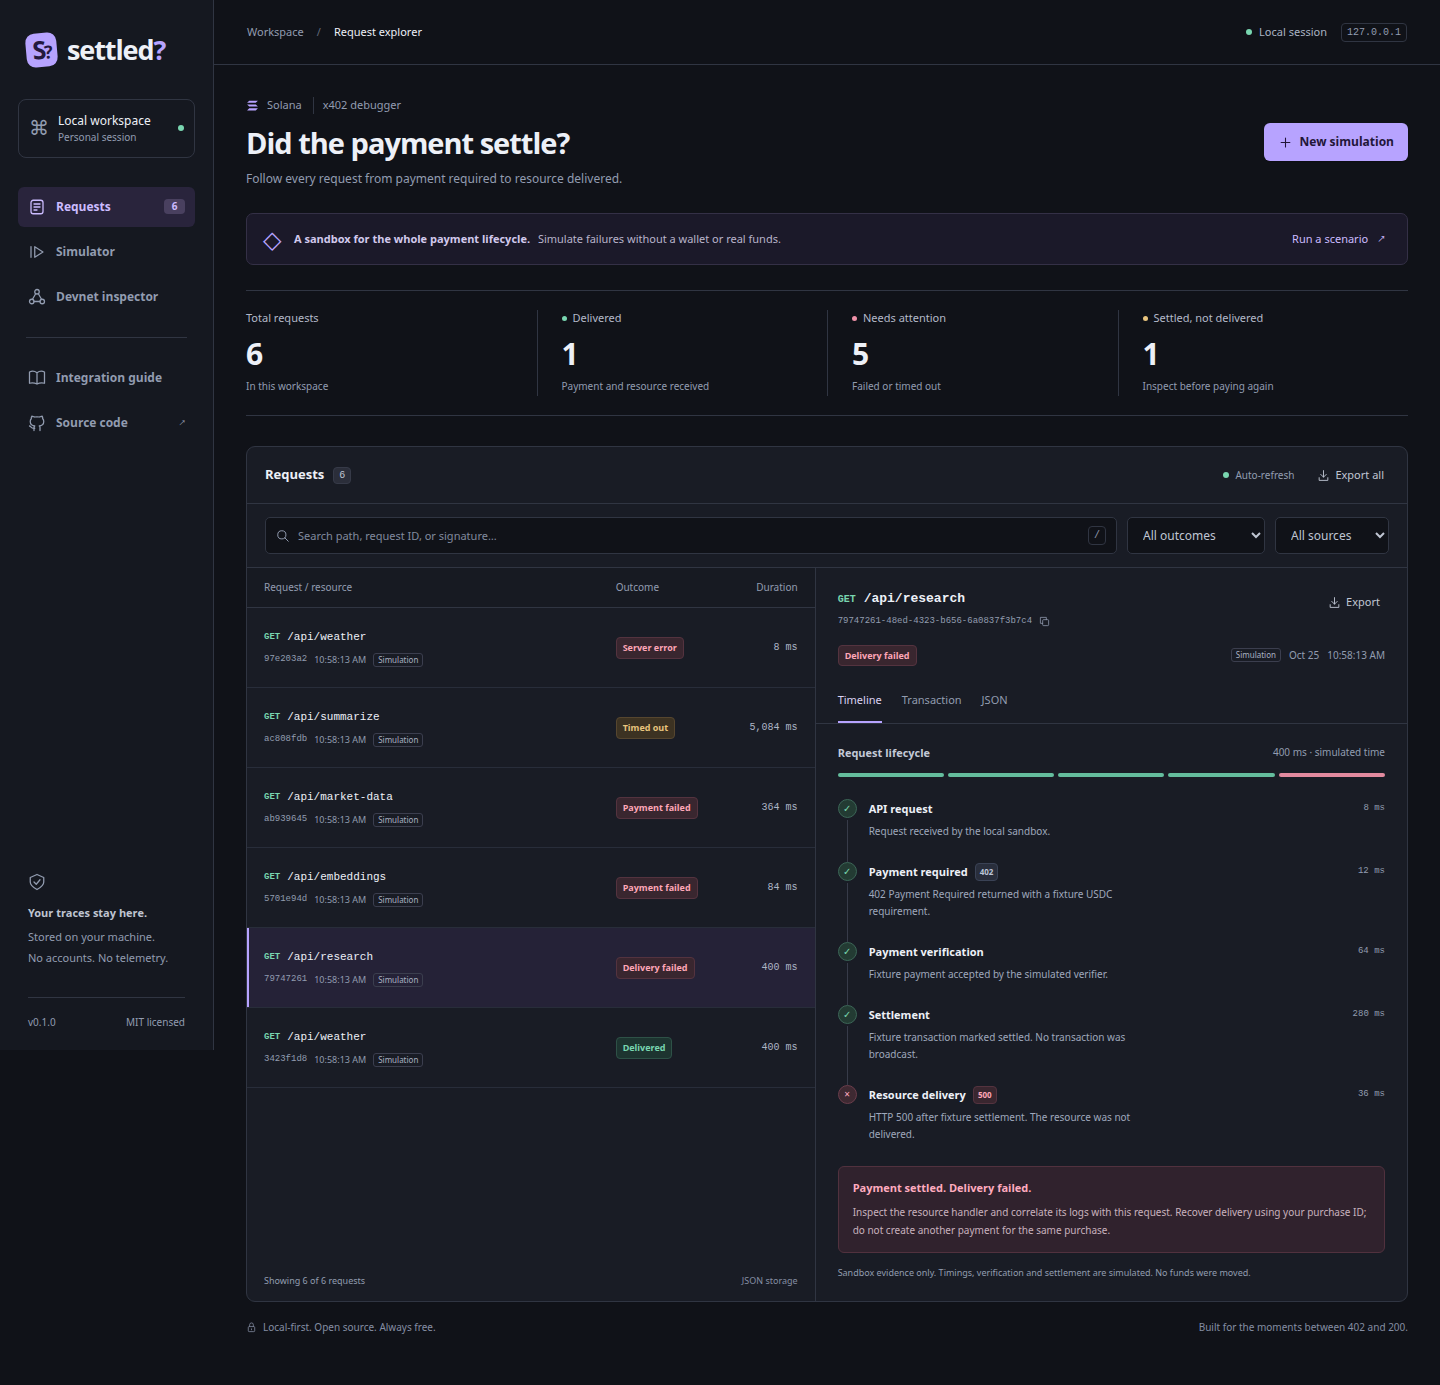
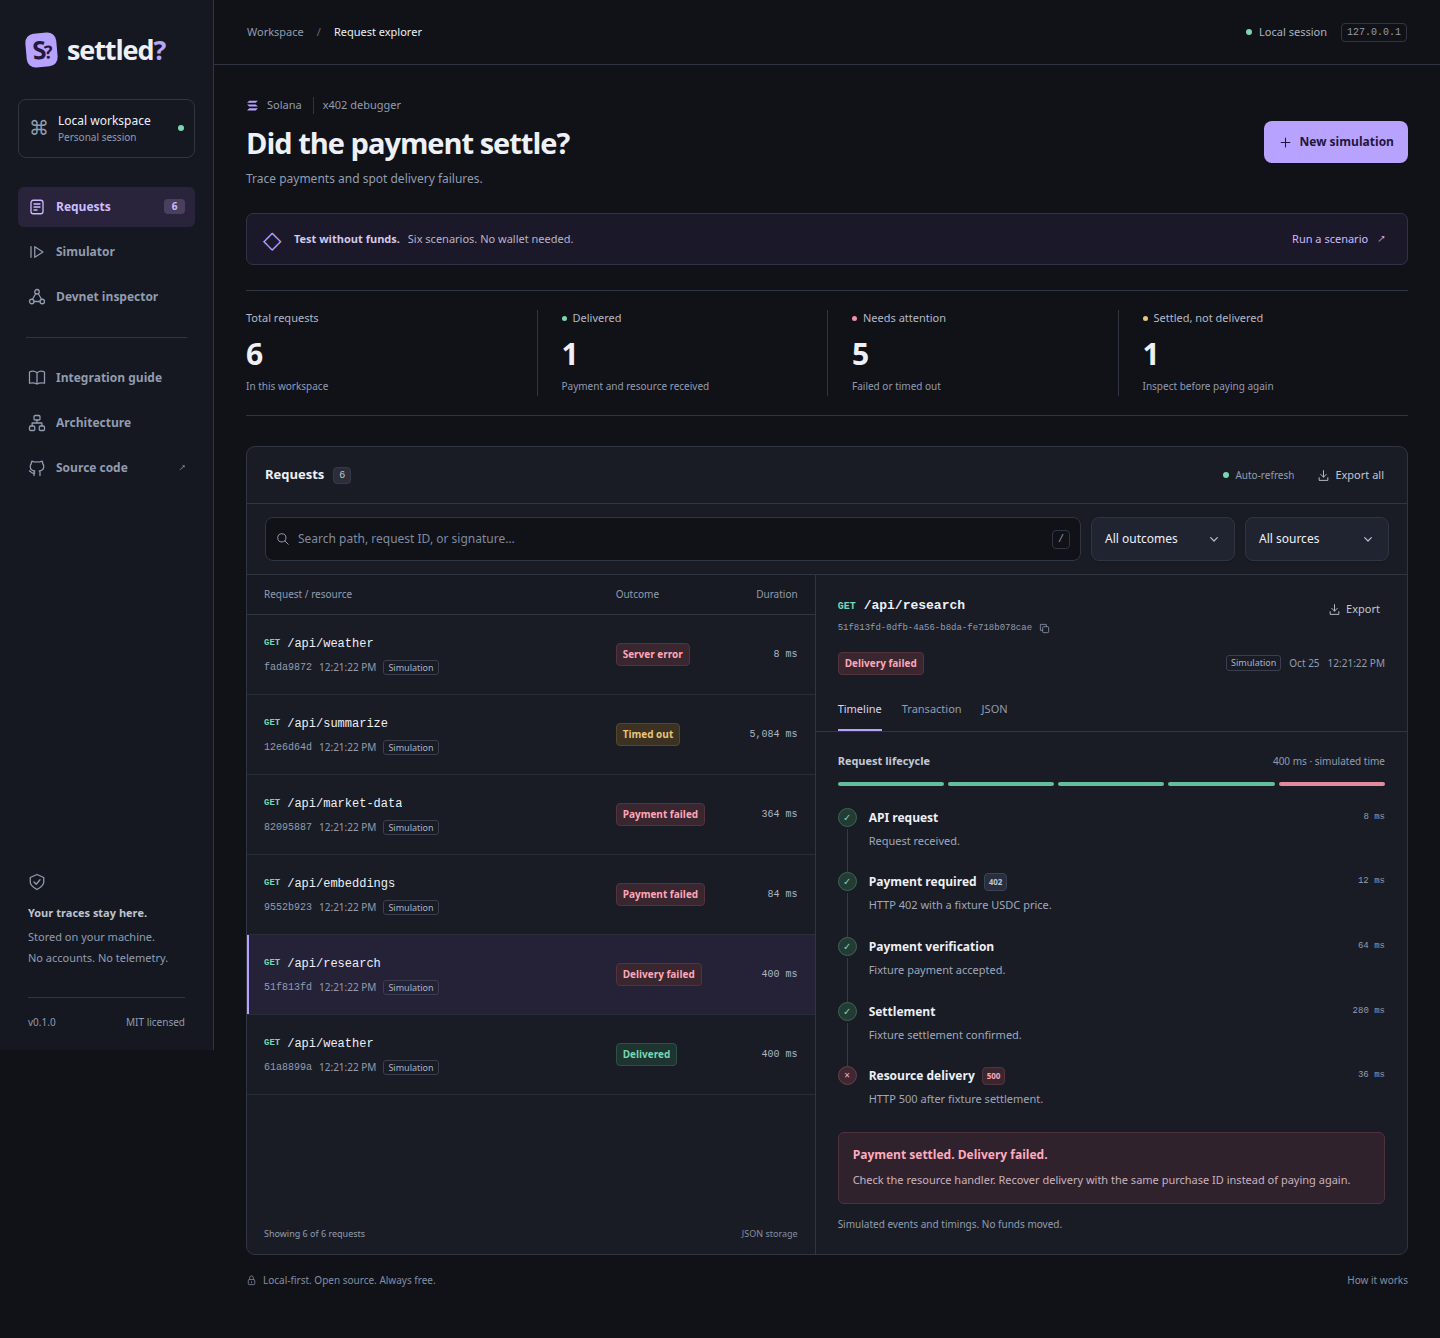
docs: simplify project overview and prepare GitHub review

diff --git a/README.md b/README.md
@@ -1,20 +1,15 @@
 # Settled?
 
-**See where an x402 payment went, and why the request still failed.**
+A free, local-first x402 payment debugger for Solana. Find out whether a payment settled and why delivery failed.
 
-A free, open-source, local-first payment debugger for Solana. Simulate the payment lifecycle without funds, capture events from your application, and inspect requests in a small developer dashboard.
+[![CI](https://github.com/royalpinto007/settled/actions/workflows/ci.yml/badge.svg)](https://github.com/royalpinto007/settled/actions/workflows/ci.yml)
+[![MIT license](https://img.shields.io/badge/license-MIT-b7a3ff)](LICENSE)
 
-![Settled? showing a settled payment with a failed resource delivery](docs/screenshot.png)
+![Settled? request explorer](docs/screenshot.png)
 
-- Trace requests, 402 challenges, verification, settlement and delivery.
-- Reproduce six success and failure scenarios without a wallet.
-- Inspect timelines, diagnostics, transaction details and JSON evidence.
-- Check an existing Solana Devnet transaction through the public RPC.
-- Keep traces in local JSON files. No database, account, telemetry or paid API.
+## Run
 
-## Run locally
-
-Requires **Node.js 22.18+** and npm. Node.js 24 is also supported.
+Requires Node.js 22.18+ and npm.
 
 ```bash
 git clone https://github.com/royalpinto007/settled.git
@@ -23,61 +18,30 @@ npm install
 npm run demo
 ```
 
-Open **http://127.0.0.1:4402**. The first demo run seeds six fixture traces. Later runs preserve your data. Choose **New simulation**, select a scenario, and inspect its timeline. Use **Export** to save the selected trace or **Export all** for the workspace.
+Open **http://127.0.0.1:4402**. Choose **New simulation** to try a success, rejection, timeout or delivery failure. No wallet or funds needed.
 
-| Scenario              | Result                                               |
-| --------------------- | ---------------------------------------------------- |
-| Successful payment    | Payment settles and the resource is delivered        |
-| Paid, delivery failed | Settlement succeeds, then delivery returns HTTP 500  |
-| Verification rejected | Payment is rejected before settlement                |
-| Settlement failed     | Verification succeeds, settlement fails              |
-| Settlement timeout    | Confirmation deadline expires; outcome stays unknown |
-| Server error          | HTTP 503 before a payment challenge                  |
+## What you can do
 
-Simulation timings are logical fixture durations. Simulated signatures start with `sim_` and are never sent to a blockchain. The sandbox does not sign or submit transactions.
+- Trace requests, verification, settlement and delivery.
+- Capture events from your app and export JSON.
+- Inspect an existing Devnet transaction.
 
-## Capture your application
+Data stays in local JSON files. No database, account, telemetry or paid API. Devnet checks report chain execution, not full x402 payment validity. This is a debugger, not a wallet or facilitator.
 
-Send redacted lifecycle metadata to `POST /api/traces`. Run the included example while Settled? is running:
+## How it works
 
-```bash
-node examples/capture.mjs
-node examples/capture.mjs delivery_failed
-```
+![Settled? system architecture](docs/architecture.svg)
 
-The example makes an actual HTTP 402 challenge and retry against an ephemeral local fixture resource. It records measured stage timings and sends the completed trace to the debugger. Its payment verifier and settlement are explicitly local fixtures, not a conforming x402 payment implementation. For a real integration, emit events around your x402 SDK and resource handler. Open **Integration guide** in the dashboard for the full local API reference at `/guide.html`, or read the [capture API](docs/api.md) in the repository. The local page is generated from that document at build time and works offline.
+**[Architecture and payment flow](docs/architecture.md)** · **[API guide](docs/api.md)** · **[Local setup](docs/local-setup.md)**
 
-## Devnet inspector
+Architecture and API pages are also available from the dashboard, offline.
 
-Paste an existing Devnet signature into **Devnet inspector**. Settled? calls only `getTransaction` on `https://api.devnet.solana.com` at confirmed commitment. No key, wallet, faucet or funds are needed. The public RPC may throttle or be unavailable.
-
-Confirmation reports chain execution. It does **not** prove the intended x402 recipient, mint, amount, authorization or resource delivery. It is stored as a separate chain observation and never upgrades a simulated payment into a real one. Production x402 verification belongs in a conforming SDK. See [Solana's x402 guide](https://solana.com/docs/payments/agentic-payments/x402) and [`getTransaction`](https://solana.com/docs/rpc/http/gettransaction).
-
-## Configuration and storage
-
-Defaults work without configuration. Optionally copy `.env.example` to `.env`; existing shell variables take precedence.
+## Contribute
 
 ```bash
-PORT=4403 DATA_DIR=./my-traces npm run demo
-```
-
-`npm run build && npm start` starts with an empty workspace rather than seeding demo data. The server binds to `127.0.0.1` only. Do not expose it through a tunnel or reverse proxy.
-
-Data lives in `data/traces.json`, outside the static web directory and ignored by Git. Writes use a serialized queue, file sync and atomic rename. One process may open a data directory at a time. Storage stops at 1,000 traces rather than silently deleting evidence. Export, stop the server, archive the directory, then use a new `DATA_DIR` to continue. After a crash, a `.lock` file may remain; remove it only after verifying no instance is using that directory. Corrupt files are preserved and cause startup to fail.
-
-Capture excludes headers, request/response bodies and query strings. You must redact free-text event details before sending them. JSON exports may contain the metadata you supplied. Back up or delete the data directory while the app is stopped.
-
-## Development and verification
-
-```bash
-npm run check                  # format, lint, types, unit/API tests, build
+npm run check
 npx playwright install chromium
-npm run test:e2e               # desktop and mobile browser flows
-npm audit
+npm run test:e2e
 ```
 
-Tests use temporary directories and a local RPC fixture. They need no funds, API keys or internet access after dependencies and Chromium are installed. `npm run dev` watches the server after building dashboard assets; rebuild after editing the dashboard.
-
-Built with TypeScript, Node.js, Express and a vanilla TypeScript dashboard bundled with esbuild. [Architecture and diagram](docs/architecture.md) · [API reference](docs/api.md) · [Contributing](CONTRIBUTING.md).
-
-Licensed under [MIT](LICENSE). The package is marked private and is not published on npm.
+See [CONTRIBUTING.md](CONTRIBUTING.md). Licensed under [MIT](LICENSE). Not published to npm.

diff --git a/CHANGELOG.md b/CHANGELOG.md
@@ -1,0 +1,9 @@
+# Changelog
+
+## Unreleased
+
+- Six payment simulations with timelines and diagnostics.
+- Local event capture, JSON storage and exports.
+- Read-only Solana Devnet transaction checks.
+- Styled controls and responsive dashboard.
+- Offline API, architecture and setup pages with diagrams.

diff --git a/.github/pull_request_template.md b/.github/pull_request_template.md
@@ -1,0 +1,9 @@
+## Change
+
+Describe the problem and resulting behavior.
+
+## Verification
+
+- [ ] `npm run check` passes.
+- [ ] UI changes pass `npm run test:e2e`.
+- [ ] Docs match the change and examples contain no private data.
